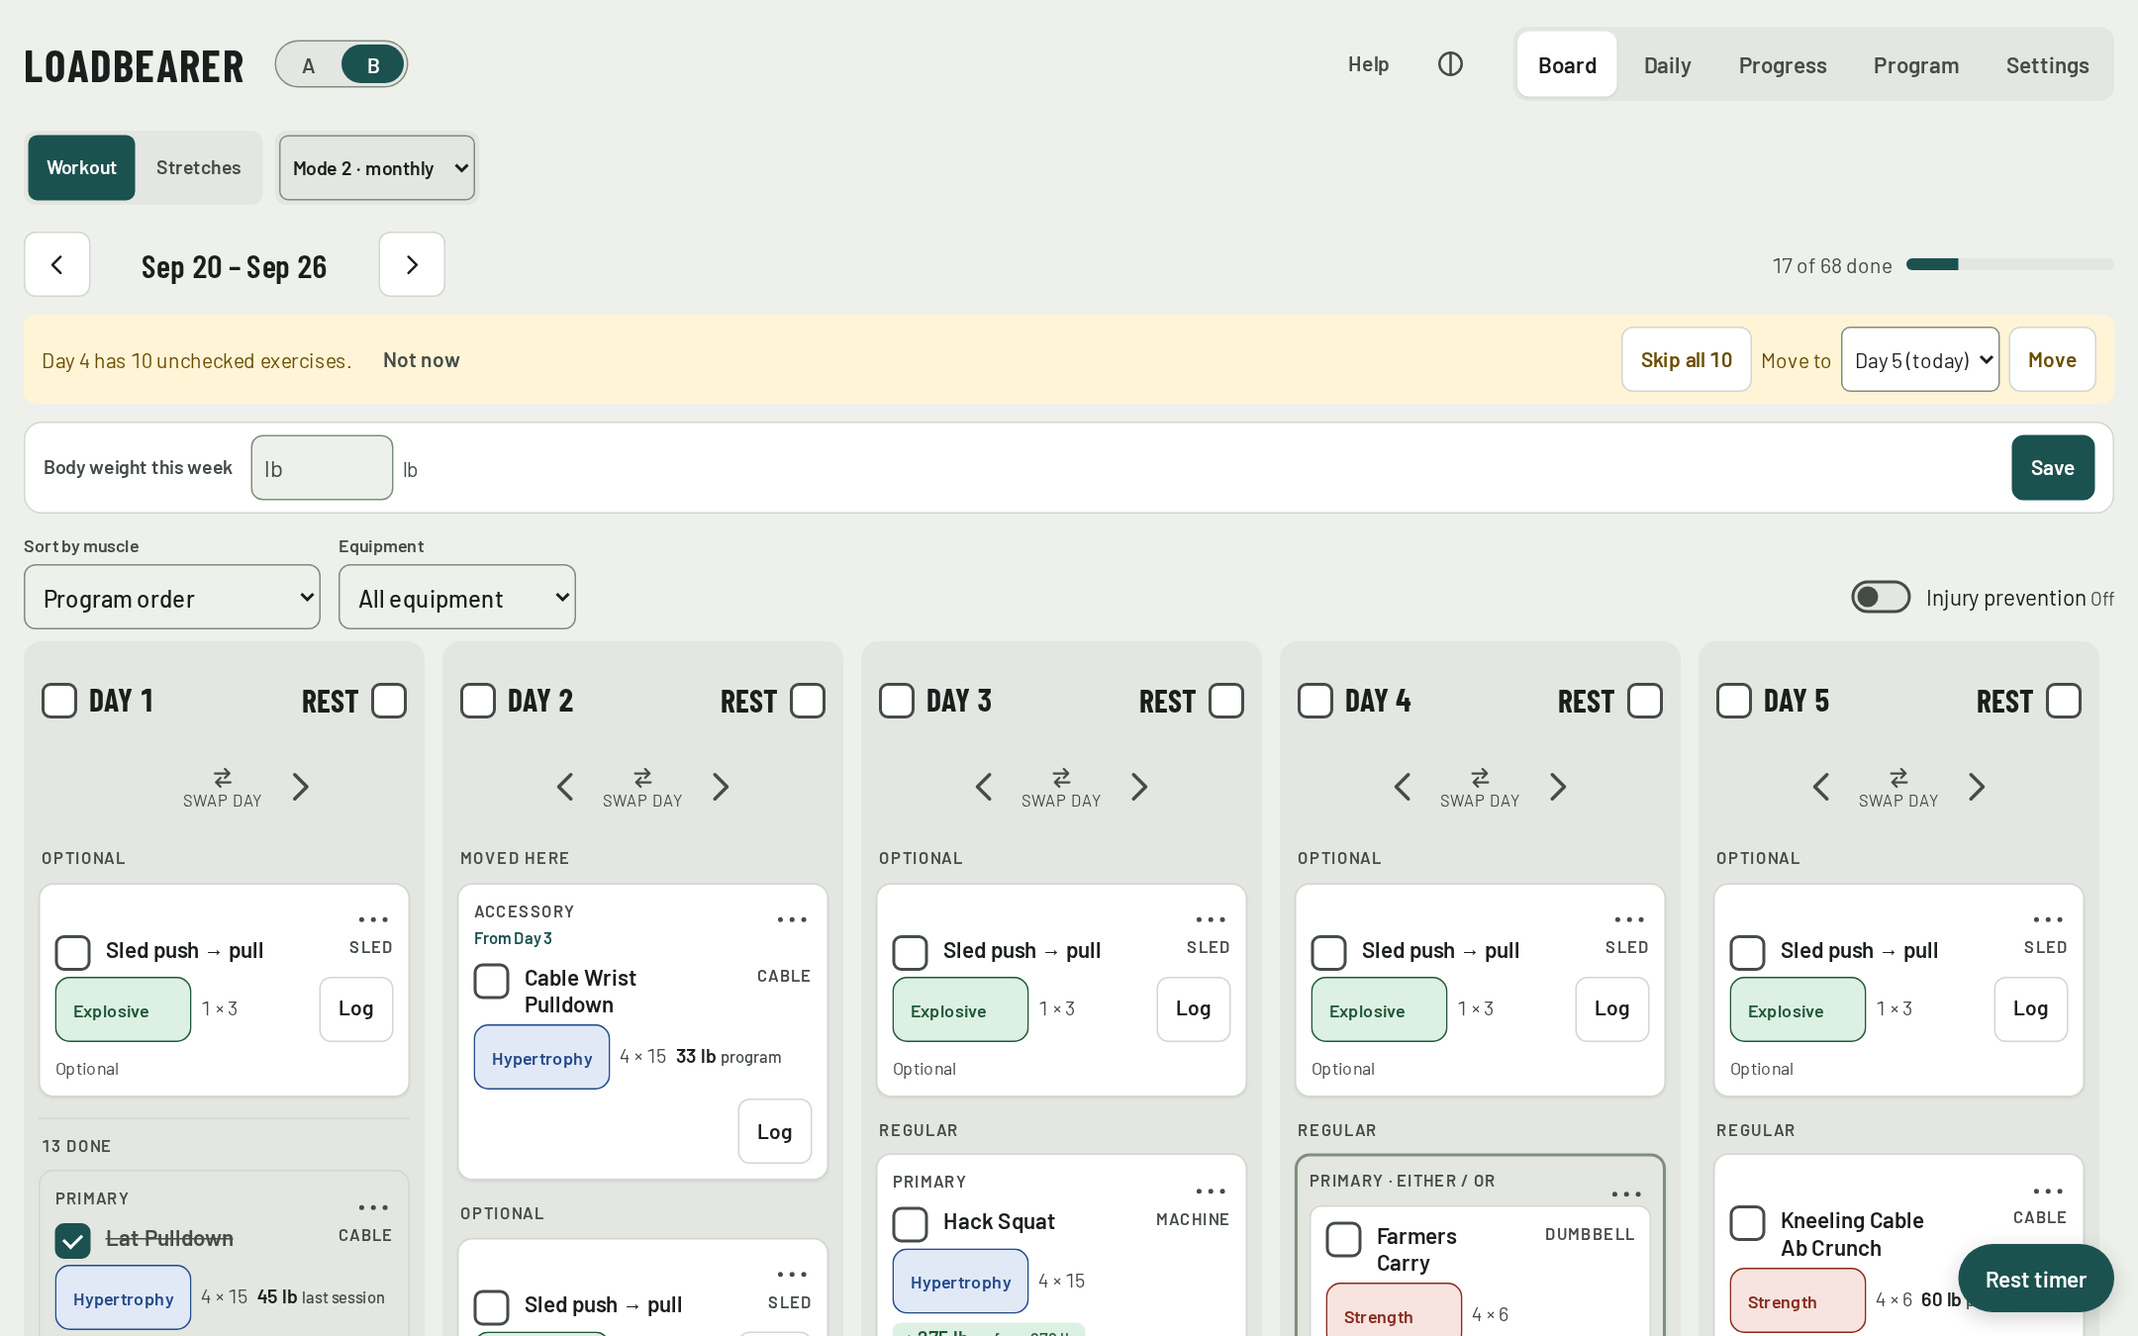
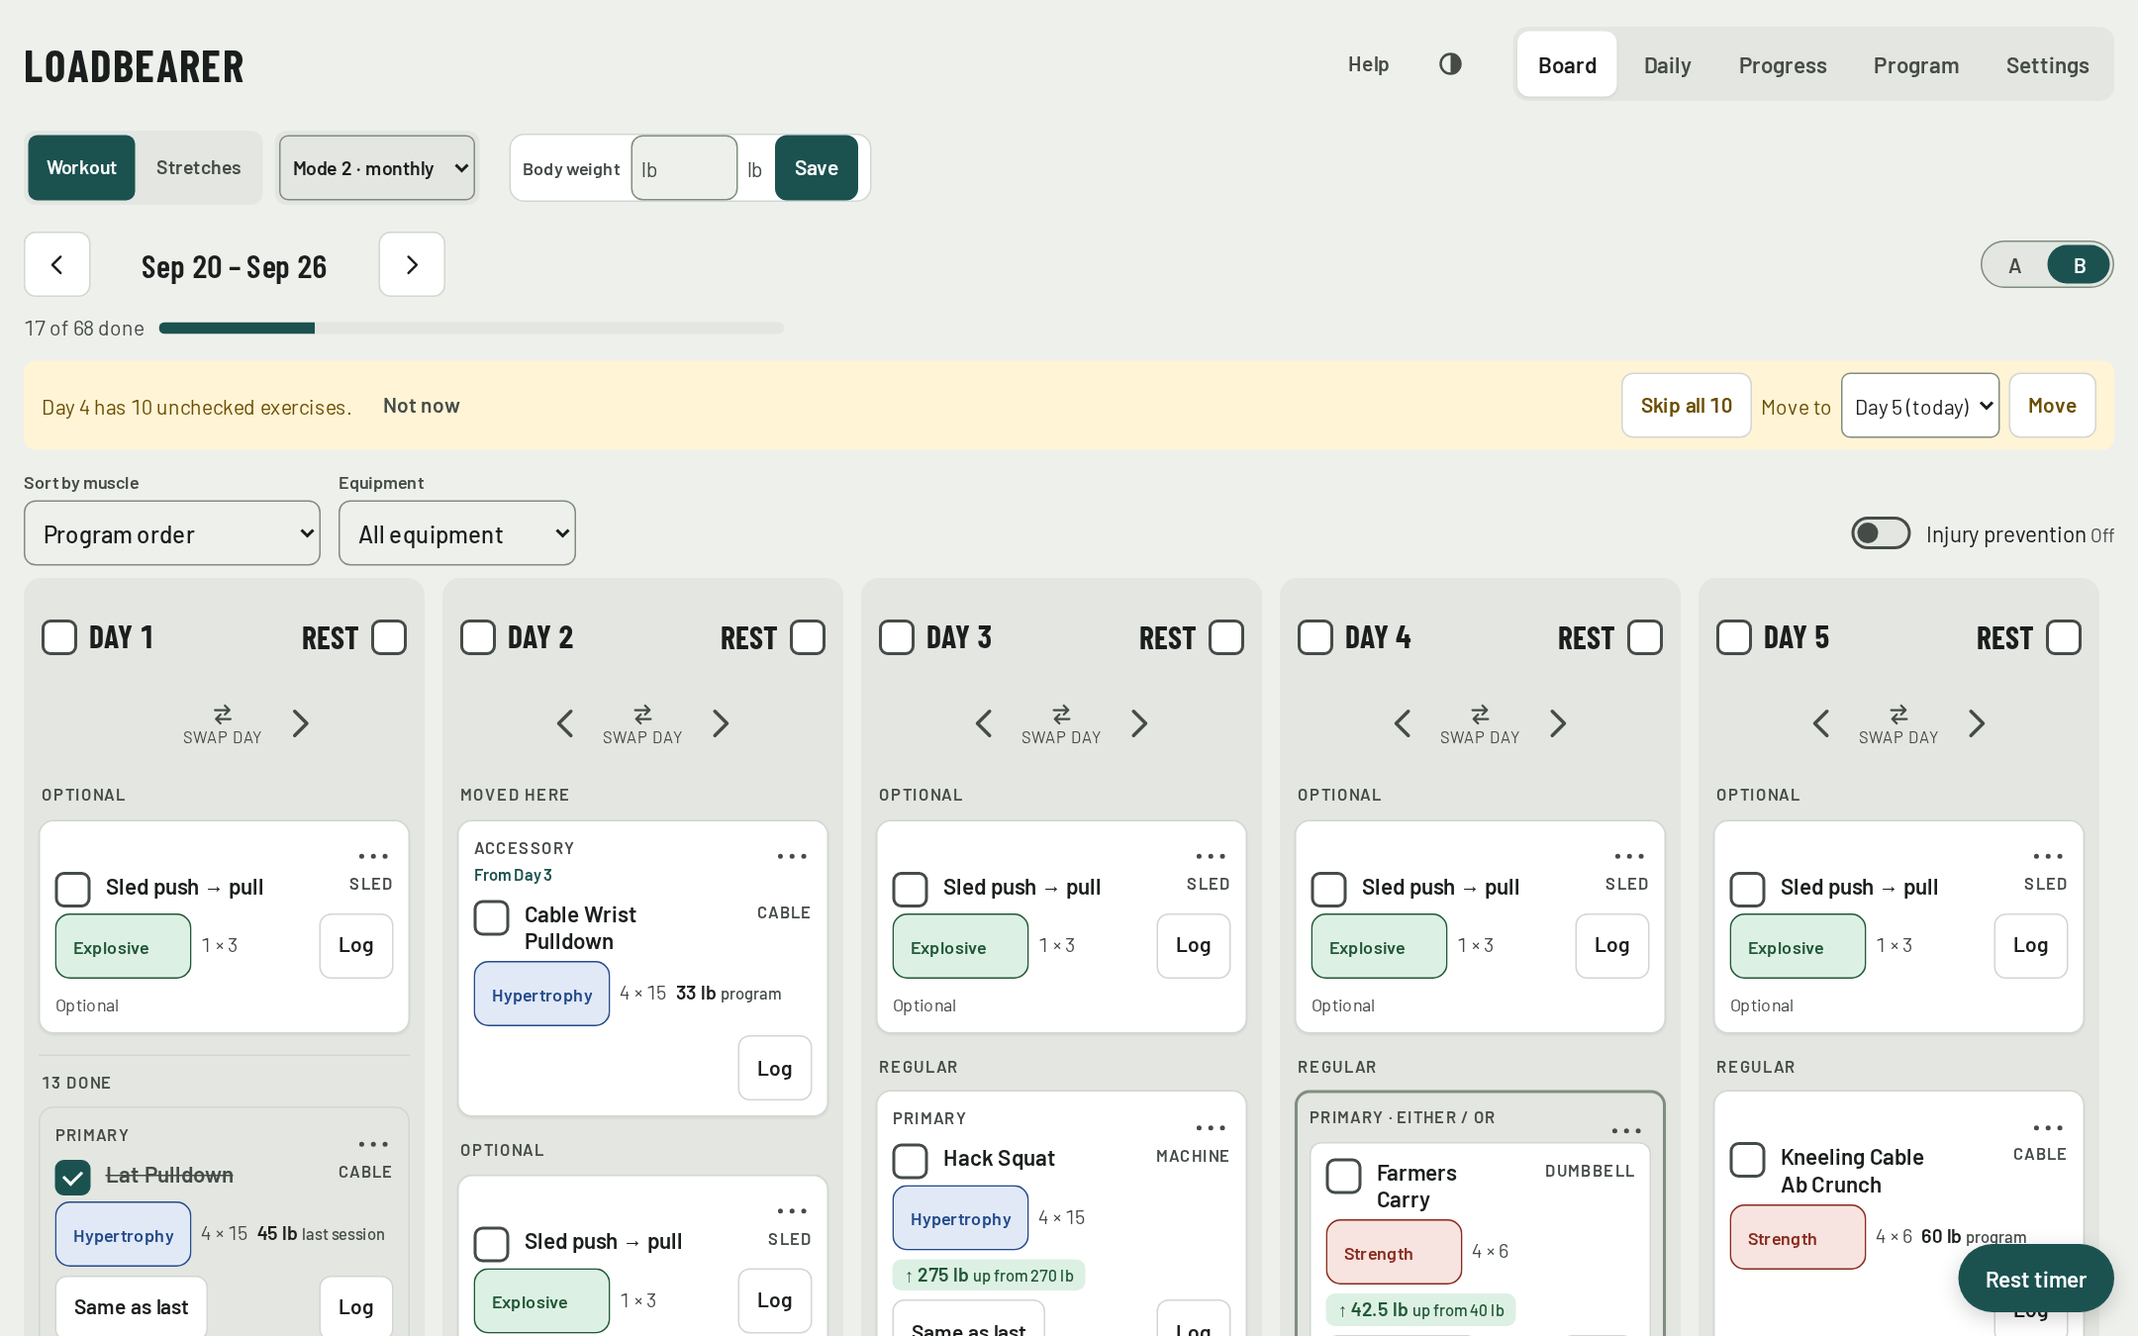
Move the A/B switch to the week row, body weight beside the mode menu on desktop
The header is now the title, Help, the colours button and the tabs, so it no longer crowds on a phone. The A/B program switch moves to the right end of the Board's week row, with the progress on its own row under the week switcher. On a screen wider than 700px the body weight is small and sits right after the mode menu in the Workout and Stretches row; a phone keeps it under the notices. The match-this-device colours icon is redrawn as a ring with its right half solid. boardSwitch.spec.js checks the new placement on phone and desktop. The landing screenshots are regenerated for the new layout.

diff --git a/e2e/boardSwitch.spec.js b/e2e/boardSwitch.spec.js
@@ -10,15 +10,16 @@ test('on a phone the mode menu shares a row with Workout / Stretches', async ({ 
   expect(mode.x + mode.width).toBeLessThanOrEqual(375);
 });
 
-test('the mode menu is on the Workout view only, and Mode 2 adds the A / B switch to the header', async ({ page }) => {
+test('the mode menu is on the Workout view only, and Mode 2 adds the A / B switch to the week bar', async ({ page }) => {
   const mode = page.locator('#board-mode');
   await expect(mode).toBeVisible();
   await expect(page.locator('header.top .pill')).toHaveCount(0); // the program and mode pills are gone from the header
   await expect(page.getByRole('group', { name: 'Program this week' })).toHaveCount(0);
   await mode.selectOption('2');
-  const sw = page.locator('header.top').getByRole('group', { name: 'Program this week' });
+  const sw = page.locator('.weekbar').getByRole('group', { name: 'Program this week' });
   await expect(sw).toBeVisible();
-  await expect(page.locator('.weeknav').getByRole('group', { name: 'Program this week' })).toHaveCount(0); // no longer beside the week
+  await expect(page.locator('header.top').getByRole('group', { name: 'Program this week' })).toHaveCount(0); // not in the header any more: that row is the title, Help and the colours button
+  await expect(page.locator('.weeknav').getByRole('group', { name: 'Program this week' })).toHaveCount(0); // a sibling of the week switcher, not inside it
   await expect(page.locator('#progswitch-note')).toHaveText('Set by month'); // said to a screen reader with the switch
   expect((await page.locator('#progswitch-note').boundingBox()).width).toBeLessThanOrEqual(1); // and not drawn beside it
   await expect(sw.locator('button').first()).toHaveText('A'); // a small slider that says A or B
@@ -46,9 +47,65 @@ test('a renamed program keeps its letter in the slider button name, and its full
     localStorage.setItem('ironlog:config/main', JSON.stringify(cfg));
   });
   await page.reload();
-  const sw = page.locator('header.top').getByRole('group', { name: 'Program this week' });
+  const sw = page.locator('.weekbar').getByRole('group', { name: 'Program this week' });
   await expect(sw.locator('button').first()).toHaveAttribute('aria-label', 'A: Upper');
   await expect(sw.locator('button').nth(1)).toHaveAttribute('aria-label', 'B: Lower');
   await expect(sw.locator('button').first()).toHaveAttribute('title', 'Upper');
   await expect(sw.locator('button').first()).toHaveText('A'); // what is drawn is the letter; the name above starts with it
+});
+
+// The week bar: the week switcher at the left, the A / B switch level with it at the right end, the progress on its own row under the switcher.
+for (const [name, width] of [['phone', 375], ['desktop', 1280]]) {
+  test(`${name}: the A / B switch is at the right of the week switcher's row and the progress is under the week switcher`, async ({ page }) => {
+    await page.setViewportSize({ width, height: 900 });
+    await page.locator('#board-mode').selectOption('2');
+    const box = async sel => page.locator(sel).first().boundingBox();
+    const nav = await box('.weekbar .weeknav');
+    const sw = await box('.weekbar .progswitch');
+    const progress = await box('.weekbar .progress');
+    expect(Math.abs((sw.y + sw.height / 2) - (nav.y + 22))).toBeLessThan(14); // level with the first row of the week switcher
+    expect(sw.x).toBeGreaterThan(nav.x + nav.width - 1); // to its right, not wrapped under it
+    expect(sw.x + sw.width).toBeLessThanOrEqual(width - 8);
+    expect(progress.y).toBeGreaterThanOrEqual(nav.y + nav.height - 1); // under the week switcher
+    expect(Math.abs(progress.x - nav.x)).toBeLessThan(2); // starting at its left edge
+    expect(await page.evaluate(() => document.documentElement.scrollWidth <= window.innerWidth)).toBe(true);
+  });
+}
+
+test('in Mode 1 the week bar has no switch and the progress is still under the week switcher', async ({ page }) => {
+  await expect(page.locator('.weekbar .progswitch')).toHaveCount(0);
+  const nav = await page.locator('.weekbar .weeknav').boundingBox();
+  const progress = await page.locator('.weekbar .progress').boundingBox();
+  expect(progress.y).toBeGreaterThanOrEqual(nav.y + nav.height - 1);
+});
+
+// Wide screens: the body weight leaves its own row and sits right after the mode menu in the Workout / Stretches row, small. A phone keeps it under the notices.
+test('desktop: the body weight sits next to the mode menu, small, and is drawn once', async ({ page }) => {
+  await page.setViewportSize({ width: 1280, height: 900 });
+  const box = async sel => page.locator(sel).first().boundingBox();
+  const mode = await box('.modesel');
+  const bw = await box('.boardtabtop > .bwrow');
+  expect(Math.abs((bw.y + bw.height / 2) - (mode.y + mode.height / 2))).toBeLessThan(10); // on the mode menu's row
+  expect(bw.x).toBeGreaterThanOrEqual(mode.x + mode.width); // after it
+  expect(bw.x - (mode.x + mode.width)).toBeLessThan(40); // and close to it
+  expect(bw.width).toBeLessThan(400);
+  await expect(page.locator('.weekbar .bwrow')).toHaveCount(0);
+  await expect(page.locator('.bwrow .bwsub')).toBeHidden(); // the shorter label
+  await expect(page.locator('.bwrow')).toHaveCount(1); // drawn once
+  await page.locator('.boardtabtop > .bwrow input').fill('180');
+  await page.locator('.boardtabtop > .bwrow').getByRole('button', { name: 'Save' }).click();
+  await expect(page.locator('.boardtabtop > .bwrow b')).toHaveText('180 lb');
+});
+
+test('desktop: the body weight is not on the Stretches view', async ({ page }) => {
+  await page.setViewportSize({ width: 1280, height: 900 });
+  await page.click('#board-stretches');
+  await expect(page.locator('.bwrow')).toHaveCount(0);
+});
+
+test('phone: the body weight stays under the notices, not next to the mode menu', async ({ page }) => {
+  await page.setViewportSize({ width: 375, height: 812 });
+  await page.reload();
+  await expect(page.locator('.boardtabtop > .bwrow')).toHaveCount(0);
+  await expect(page.locator('.boardroot > .bwrow')).toHaveCount(1);
 });

diff --git a/src/components/board/Board.tsx b/src/components/board/Board.tsx
@@ -16,9 +16,12 @@ import Experiments from './Experiments.jsx';
 import FirstRun from './FirstRun.jsx';
 import InjurySwitch from './InjurySwitch.jsx';
 import Icon from '../Icon.jsx';
+import ProgramSwitch from './ProgramSwitch.js';
+import { useWide } from './useWide.js';
 import './BoardTop.css';
 import './DayHeader.css';
 import './Leftovers.css';
+import './WeekBar.css';
 
 // Cards moved in from another day are grouped under their own heading.
 const secOf = (s: FlatSlot, day: number) => (s.day === day ? s.sec : 'Moved here');
@@ -66,6 +69,7 @@ function SwapArrows({ d }: { d: number }) {
 }
 
 export default function Board() {
+  const wide = useWide(); // a wide screen draws the body weight next to the mode menu (BoardTab.tsx); a phone keeps it under the notices, here
   const cfg = useAppStore(s => s.cfg);
   const week = useAppStore(s => s.week);
   const weekStart = useAppStore(s => s.weekStart);
@@ -152,6 +156,7 @@ export default function Board() {
           <button type="button" className="btn sm" aria-label="Next week" onClick={() => st.gotoWeek('next')}><Icon name="chevron-right" /></button>
           {ymd(weekStartOf(today)) !== wk && <button type="button" className="btn sm ghost" onClick={() => st.gotoWeek('today')}>This week</button>}
         </div>
+        <ProgramSwitch />
         <div className="progress">
           <span>{done} of {total} done{skippedN ? ` · ${skippedN} skipped` : ''}</span>
           <div className="bar"><i style={{ width: `${pct}%` }} /></div>
@@ -186,7 +191,7 @@ export default function Board() {
         </div>
       )}
       {slots.length === 0 && <FirstRun />}
-      <BodyWeightRow key={wk} />
+      {!wide && <BodyWeightRow key={wk} />}
       <div className="filterbar">
         <div className="filtergroup" role="group" aria-label="Sort and filter exercises">
           <button type="button" className="btn sm filtertoggle" aria-expanded={filterOpen} aria-controls="filter-fields" onClick={() => setFilterOpen(o => !o)}>

diff --git a/src/components/board/WeekBar.css b/src/components/board/WeekBar.css
@@ -1,0 +1,41 @@
+@layer base, components;
+@layer components {
+/* The Board's week bar: the week switcher at the left, the A / B program switch (ProgramSwitch.tsx, Mode 2 only) at the right end of the same
+   row on a phone, and the progress on its own row under both. Two columns: the switcher takes what is left (its own buttons wrap inside it,
+   so the "This week" link drops under the date on a narrow phone and the program switch stays put), the switch takes its own width. The pill
+   is 32px and the week buttons 44px, so the switch is nudged down to sit level with the first row. */
+.weekbar {
+  display: grid;
+  grid-template-columns: minmax(0, 1fr) auto;
+  align-items: start;
+  justify-content: stretch;
+}
+.weekbar > .progswitch {
+  margin-block-start: var(--sp-6);
+}
+.weekbar > .progress {
+  grid-column: 1 / -1;
+  max-width: 32rem;
+}
+.weekbar > .progress .bar {
+  flex: 1;
+}
+
+/* A wide screen: two rows. Row one is the week switcher at the left and the program switch level with it at the right end; row two is the
+   progress under the week switcher. (The body weight is not here: on a wide screen it sits next to the mode menu, see BodyWeightRow.css.) */
+@media (min-width: 701px) {
+  .weekbar > .weeknav {
+    grid-area: 1 / 1;
+  }
+  .weekbar > .progress {
+    grid-area: 2 / 1;
+    align-self: center;
+  }
+  .weekbar > .progswitch {
+    grid-area: 1 / 2;
+    align-self: center;
+    justify-self: end;
+    margin-block-start: 0;
+  }
+}
+}

diff --git a/src/components/board/BoardTab.tsx b/src/components/board/BoardTab.tsx
@@ -1,5 +1,8 @@
 import { useAppStore } from '../../store/useAppStore.js';
 import Board from './Board.jsx';
+import BodyWeightRow from './BodyWeightRow.js';
+import { useWide } from './useWide.js';
+import { ymd } from '../../shared/dates.js';
 import { lazyTab } from '../../lib/lazyTab.js';
 
 // The stretch routine is a second screen of the Board tab; its code loads when it is first shown, not with the workout.
@@ -14,6 +17,8 @@ export default function BoardTab() {
   const setBoardView = useAppStore(s => s.setBoardView);
   const mode = useAppStore(s => s.cfg.mode);
   const setMode = useAppStore(s => s.setMode);
+  const weekStart = useAppStore(s => s.weekStart);
+  const wide = useWide();
   return (
     <>
       <div className="edtop boardtabtop">
@@ -29,6 +34,8 @@ export default function BoardTab() {
             </select>
           </label>
         )}
+        {/* On a wide screen the body weight sits next to the mode menu (a phone keeps it under the notices, in Board.tsx). */}
+        {view === 'workout' && wide && <BodyWeightRow key={ymd(weekStart)} />}
       </div>
       {view === 'stretches' ? <Stretches /> : <Board />}
     </>

diff --git a/src/components/Icon.tsx b/src/components/Icon.tsx
@@ -11,7 +11,6 @@ const STROKE = {
   'chevron-right': 'M9 5l7 7-7 7',
   'chevron-up': 'M5 15l7-7 7 7',
   close: 'M6 6l12 12M18 6L6 18',
-  contrast: 'M12 3a9 9 0 100 18 9 9 0 000-18zM12 3v18M12 3a9 9 0 010 18',
   info: 'M12 11v6M12 7.5v.01M12 3a9 9 0 100 18 9 9 0 000-18z',
   moon: 'M12 3a6 6 0 009 9 9 9 0 11-9-9z',
   spark: 'M12 3l1.8 5.2L19 10l-5.2 1.8L12 17l-1.8-5.2L5 10l5.2-1.8z',
@@ -21,6 +20,8 @@ const STROKE = {
   warning: 'M12 4l9 16H3zM12 10v4M12 17v.01',
 } as const satisfies Record<string, string>;
 const FILLED = {
+  // A ring with its right half solid (the match-this-device colours icon): the ring is two circles drawn in opposite directions, the half disc fills inside it.
+  contrast: 'M12 3a9 9 0 100 18 9 9 0 000-18zM12 5a7 7 0 110 14 7 7 0 010-14zM12 5a7 7 0 010 14z',
   dots: 'M5 10.5a1.5 1.5 0 100 3 1.5 1.5 0 000-3zM12 10.5a1.5 1.5 0 100 3 1.5 1.5 0 000-3zM19 10.5a1.5 1.5 0 100 3 1.5 1.5 0 000-3z',
   play: 'M8 5v14l11-7z',
 } as const satisfies Record<string, string>;

diff --git a/src/components/board/BodyWeightRow.css b/src/components/board/BodyWeightRow.css
@@ -45,4 +45,36 @@
 .bwrow button[type=submit] + .btn {
   margin-left: 0;
 }
+
+/* A wide screen: the body weight sits in the Workout / Stretches row, right after the mode menu (BoardTab.tsx), small: the shorter label, a
+   narrow number box, no extra padding, and one line. A phone keeps the full row under the notices. */
+@media (min-width: 701px) {
+  .boardtabtop > .bwrow {
+    align-self: center;
+    flex-wrap: nowrap;
+    gap: var(--sp-4) var(--sp-8);
+    margin: 0 0 0 var(--sp-12);
+    padding: 0 var(--sp-8);
+    border-radius: var(--r-lg);
+  }
+  .boardtabtop > .bwrow .bwsub {
+    display: none;
+  }
+  .boardtabtop > .bwrow .bwl {
+    font-size: var(--fs-xs);
+    white-space: nowrap;
+  }
+  .boardtabtop > .bwrow b {
+    font-size: var(--fs-md);
+    white-space: nowrap;
+  }
+  .boardtabtop > .bwrow input {
+    width: 72px;
+    padding: var(--sp-4) var(--sp-6);
+    font-size: var(--fs-md);
+  }
+  .boardtabtop > .bwrow .note {
+    white-space: nowrap;
+  }
+}
 }

diff --git a/src/App.tsx b/src/App.tsx
@@ -10,7 +10,6 @@ import Toaster from './components/Toaster.js';
 import InstallHint from './components/board/InstallHint.js';
 import AccountBadge from './components/AccountBadge.js';
 import useBadgeName from './hooks/useBadgeName.js';
-import ProgramSwitch from './components/board/ProgramSwitch.js';
 import ThemeButton from './components/ThemeButton.js';
 import UpdateBanner from './components/UpdateBanner.js';
 import SyncNotice from './components/SyncNotice.js';
@@ -104,7 +103,6 @@ export default function App() {
       <div className="wrap">
         <header className="top">
           <h1>Loadbearer</h1>
-          <ProgramSwitch />
           <div className="topact">
             <button type="button" className="btn ghost helpbtn" id="help-btn" onClick={() => openModal({ type: 'help' })}>Help</button>
             <ThemeButton />

diff --git a/src/components/board/ProgramSwitch.tsx b/src/components/board/ProgramSwitch.tsx
@@ -4,7 +4,7 @@ import { programLabel } from '../../lib/programLabel.js';
 import type { ProgKey } from '../../types.ts';
 import './ProgramSwitch.css';
 
-// Mode 2 (monthly) alternates programs A and B by the month; this switch, in the header, flips the week on the Board to the other one.
+// Mode 2 (monthly) alternates programs A and B by the month; this switch, at the right end of the week bar beside the week switcher, flips the week on the Board to the other one.
 // Whether the week follows the month or was switched is not drawn (it was a stray line beside the switch); a screen reader still hears it with the switch.
 // It is only there where it does something: Mode 2, on the Board. The other modes have one program or follow the schedule, so nothing to switch.
 export default function ProgramSwitch() {

diff --git a/src/components/board/useWide.ts b/src/components/board/useWide.ts
@@ -1,0 +1,9 @@
+import { useSyncExternalStore } from 'react';
+
+// A wide screen is anything above the 700px phone breakpoint. The Board draws its body weight in a different place on each (next to the mode
+// menu on a wide screen, under the notices on a phone), and draws it once, so it asks the screen instead of hiding a copy with CSS.
+const WIDE = '(min-width:701px)';
+const subscribe = (notify: () => void) => { const m = window.matchMedia(WIDE); m.addEventListener('change', notify); return () => m.removeEventListener('change', notify); };
+const isWide = () => window.matchMedia(WIDE).matches;
+
+export const useWide = (): boolean => useSyncExternalStore(subscribe, isWide, () => true);

diff --git a/src/components/board/ProgramSwitch.css b/src/components/board/ProgramSwitch.css
@@ -1,6 +1,6 @@
 @layer base, components;
 @layer components {
-/* The A / B program slider in the header (ProgramSwitch.tsx): a small pill with the knob under the program in use. The pill is 32px tall; each
+/* The A / B program slider in the Board's week bar (ProgramSwitch.tsx; placement in WeekBar.css): a small pill with the knob under the program in use. The pill is 32px tall; each
    button reaches 44px, so the touch target stays the size the rest of the app holds to. */
 .progswitch {
   display: flex;
